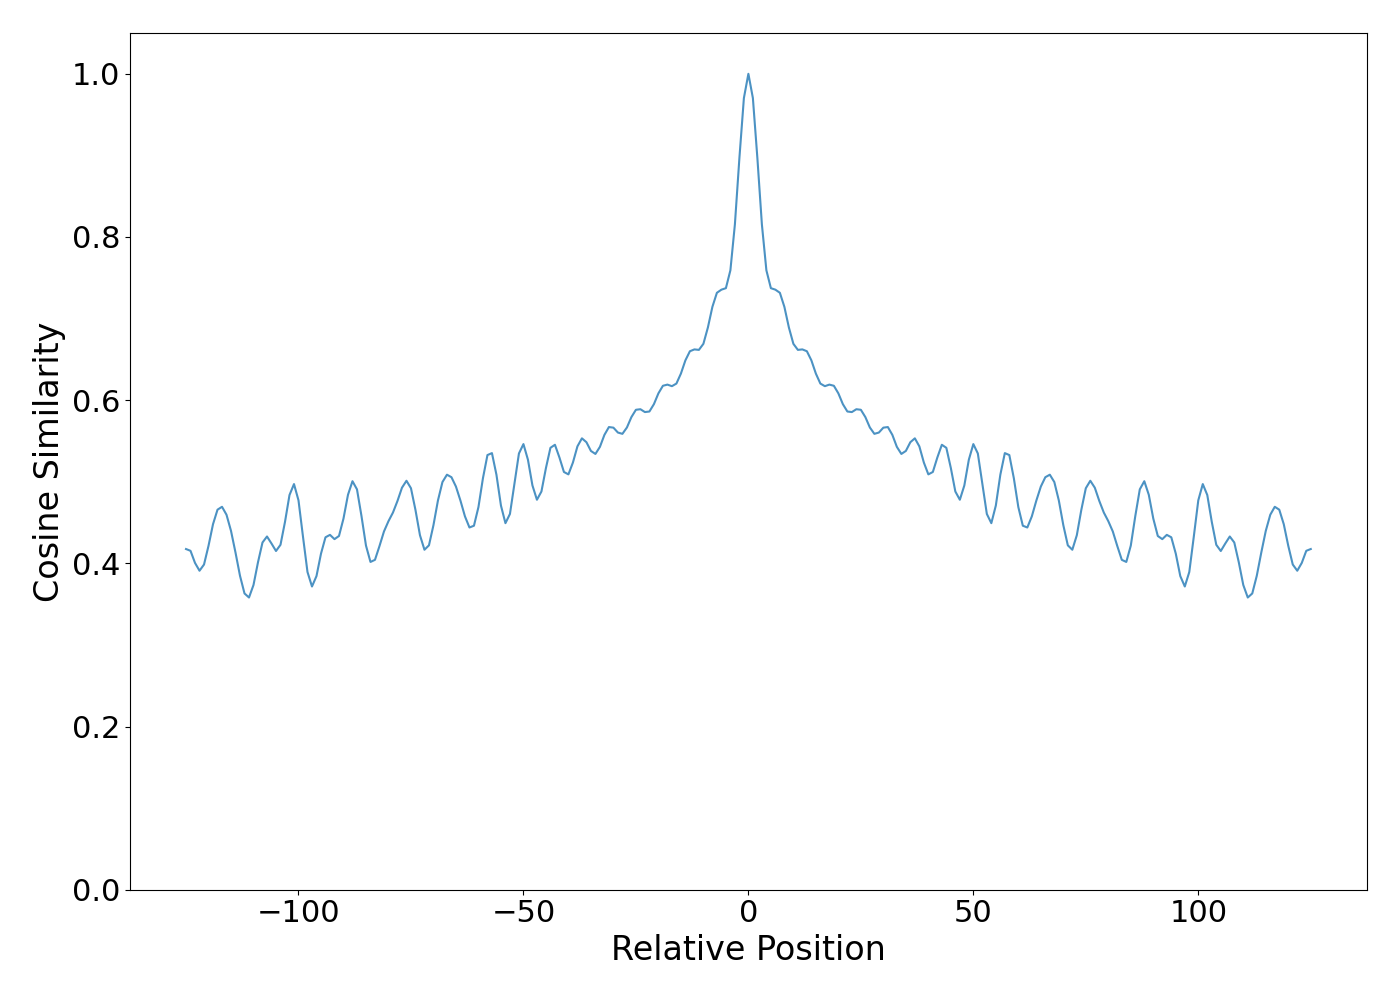
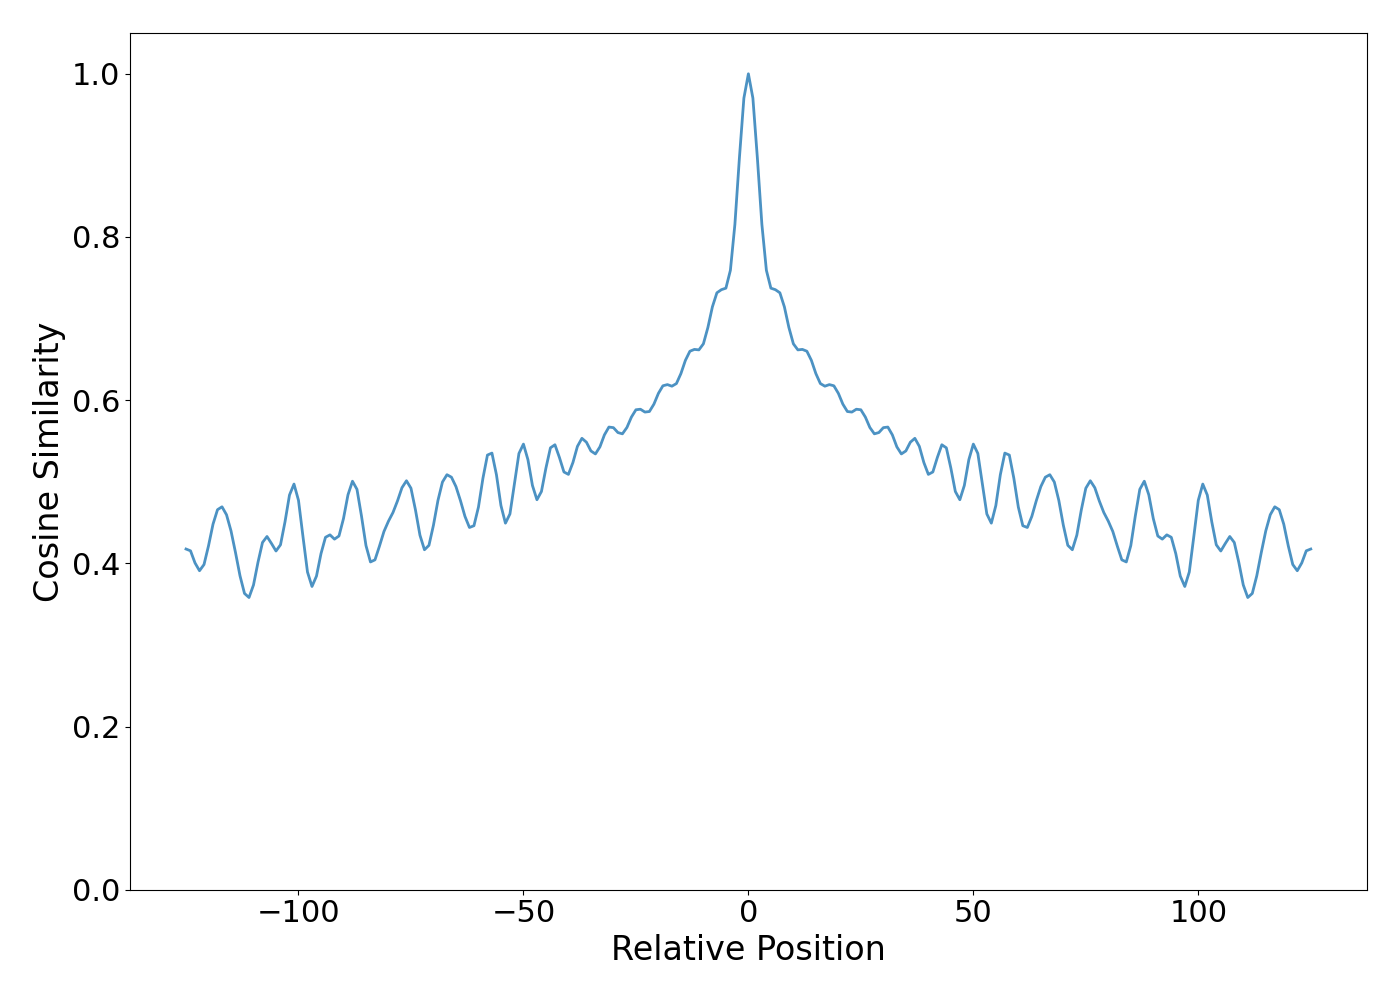
similarity shapes for presentation

diff --git a/src/experiments/visualization/similarity_shapes.py b/src/experiments/visualization/similarity_shapes.py
@@ -87,6 +87,8 @@ def plot_similarity_from_position(  # noqa: C901
     legend: bool = True,
     figsize: tuple[float, float] = (19, 10),
     vertical_line: bool = True,
+    legend_location: str = "upper right",
+    extra_legend_info: str = "",
 ) -> None:
     """Generates and plots the similarity relative to a reference position for multiple PE configurations.
 
@@ -112,6 +114,7 @@ def plot_similarity_from_position(  # noqa: C901
         legend (bool): Whether to display the legend on the plot. Defaults to True.
         figsize (tuple): Figure size for the plot. Defaults to (19, 10).
         vertical_line (bool): Whether to draw a horizontal line at y=0 for reference. Defaults to True.
+        legend_location (str): Location of the legend on the plot. Defaults to "upper right".
     """
     # --- Set up the random seed for reproducibility ---
     torch.manual_seed(seed)
@@ -193,7 +196,10 @@ def plot_similarity_from_position(  # noqa: C901
     # plot_title = default_title if title is None else title
     # pyplot.title(plot_title)
     if legend:
-        pyplot.legend(loc="upper right", fontsize="small")
+        if extra_legend_info:
+            pyplot.plot([], [], " ", label=extra_legend_info)
+
+        pyplot.legend(loc=legend_location, fontsize="small")
 
     if vertical_line:
         pyplot.grid(True, linestyle="--", alpha=0.6)
@@ -206,6 +212,10 @@ def plot_similarity_from_position(  # noqa: C901
     pyplot.ylim(0, 1.05)
 
     pyplot.tight_layout()
+
+    # Make plot lines thicker for better visibility
+    for line in pyplot.gca().get_lines():
+        line.set_linewidth(2)
 
     if plot_path is not None:
         plot_path = pathlib.Path(plot_path)  # Ensure it's a Path object
@@ -327,4 +337,40 @@ if __name__ == "__main__":
         legend=False,
         figsize=(14, 10),
         vertical_line=False,
+    )
+
+    # Example 6: Presentation Plot
+    print("\n=== Plotting ===")
+    plot_similarity_from_position(
+        plot_configurations={
+            "Sinusoidal": "sinusoidal",
+            "Fractional Power $(\\beta=0.8)$": {
+                "type": "fractional_power",
+                "beta": 0.8,
+                "kernel": "gaussian",
+            },
+            "Fractional Power $(\\beta=2)$": {
+                "type": "fractional_power",
+                "beta": 2,
+                "kernel": "sinc",
+            },
+            "Fractional Power $(\\beta=1)$": {
+                "type": "fractional_power",
+                "beta": 1,
+                "kernel": "sinc",
+            },
+        },
+        num_positions=num_positions_for_sim,
+        pos_ref=num_positions_for_sim // 2,
+        d_model=d_model,
+        seed=seed,
+        plot_path=output_directory / f"presentation_{cosine_metric}_d{d_model}_n{num_positions_for_sim}.png",
+        plot=True,
+        metric=cosine_metric,
+        use_config_key_for_label=True,
+        legend=True,
+        figsize=(14, 10),
+        vertical_line=False,
+        legend_location="lower right",
+        extra_legend_info="($\\beta$: decaying power)",
     )
